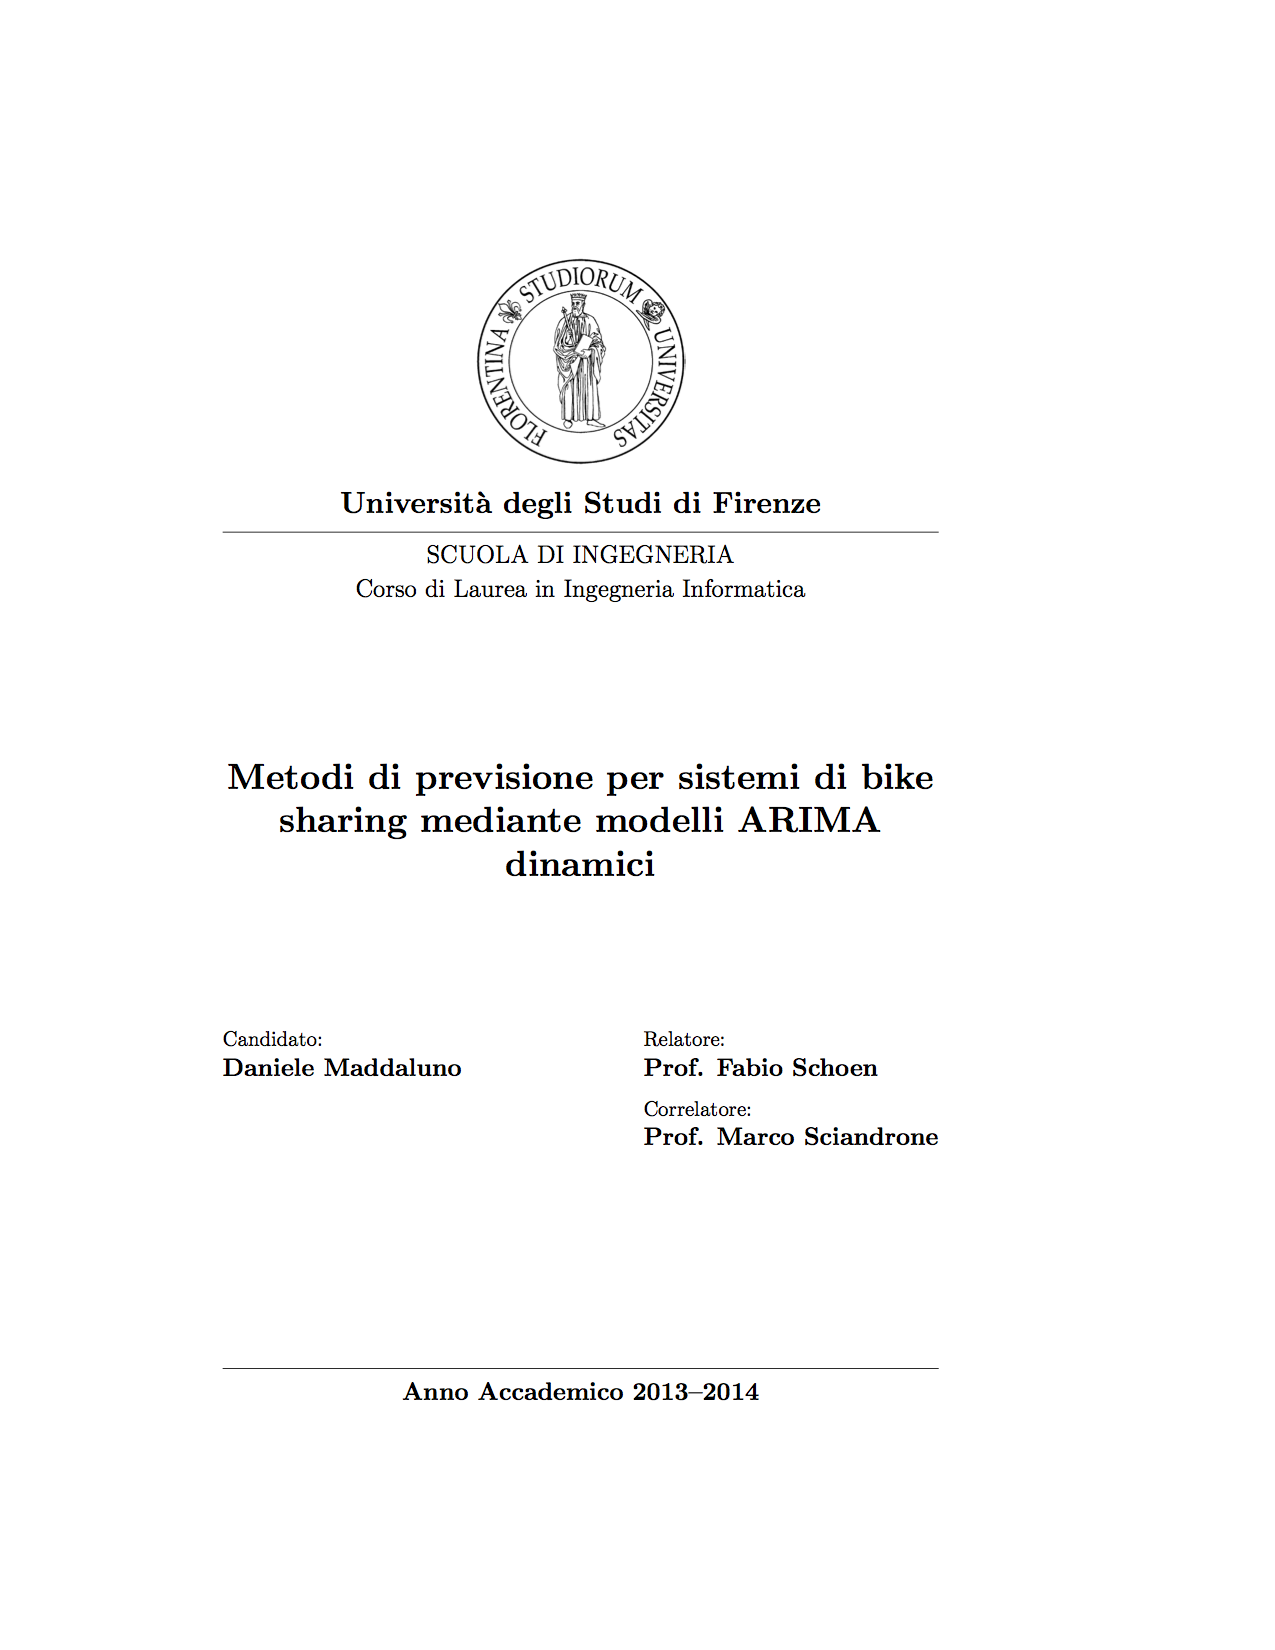
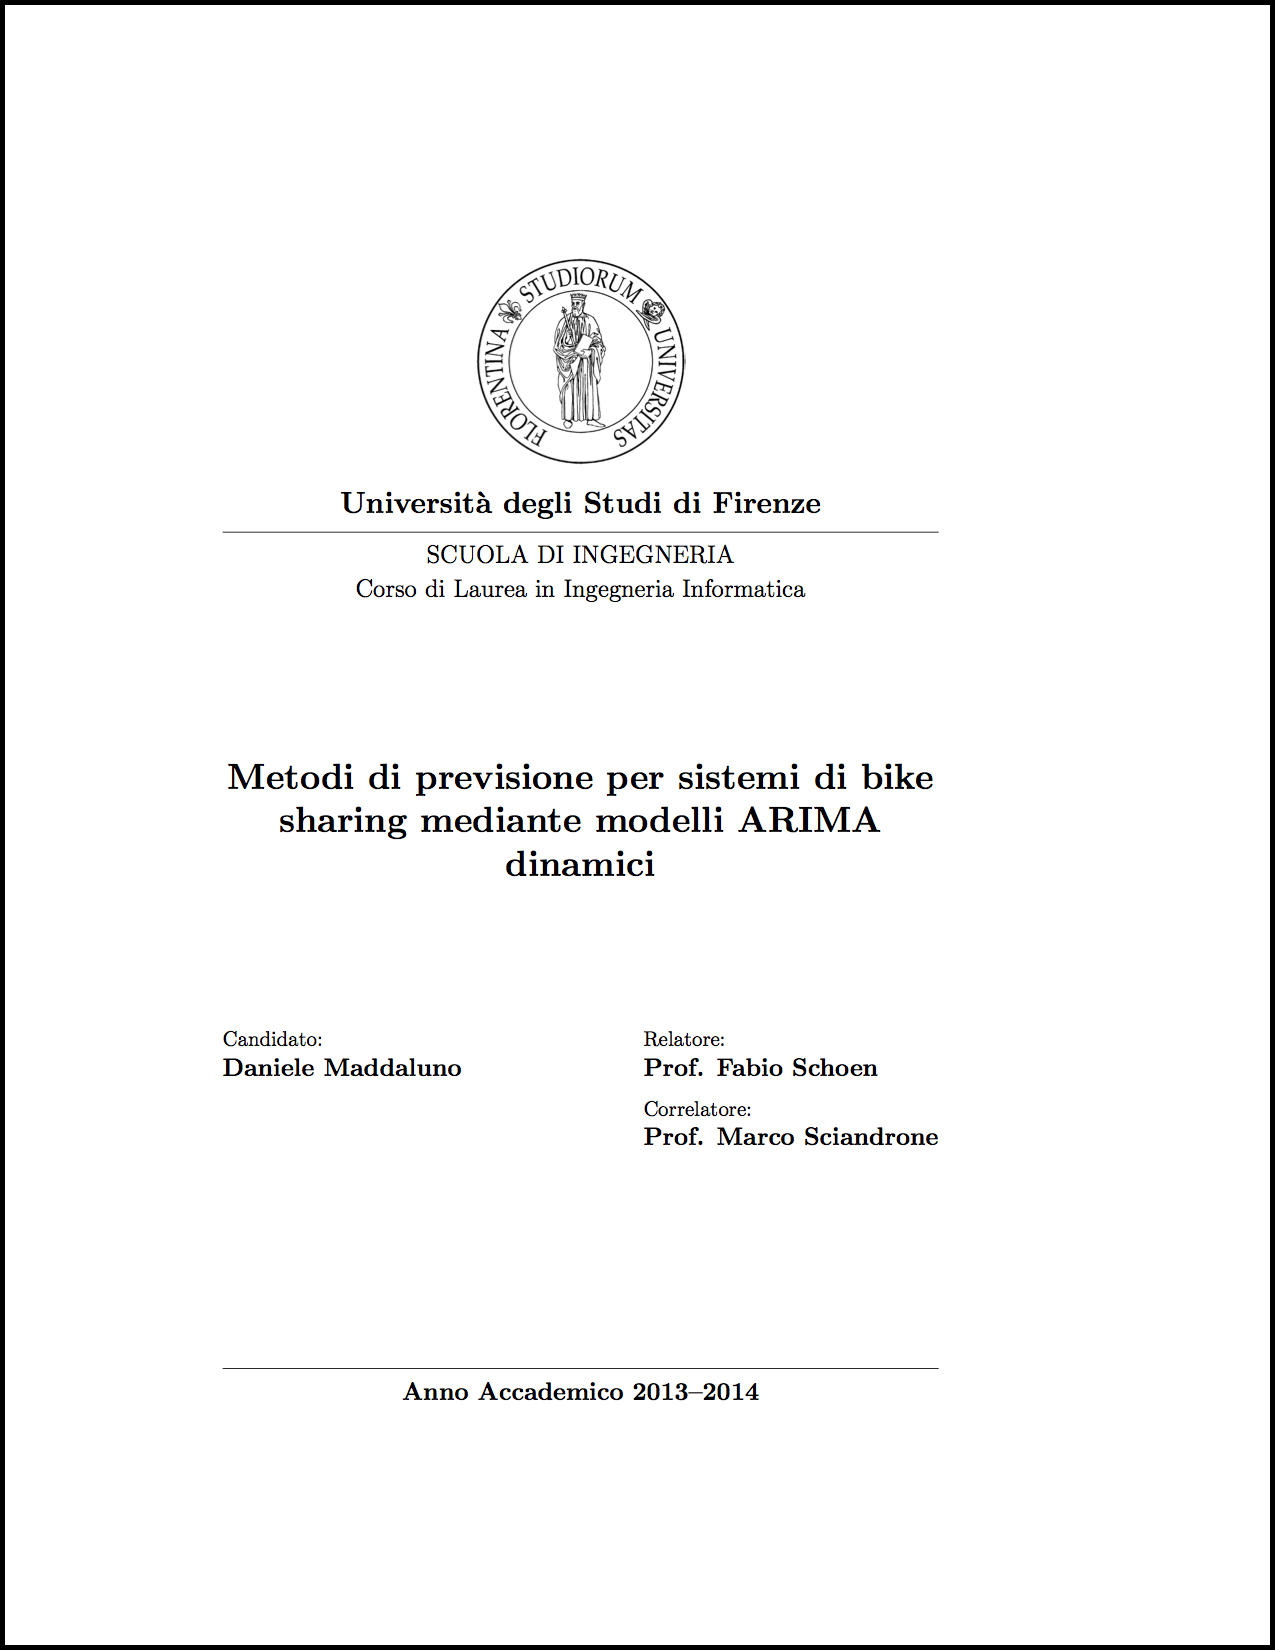
Added border to README-frontispiece.png and a simple howto in the README.md

Changed region(s): [[0.0, 0.0, 1.0, 1.0]]

diff --git a/README.md b/README.md
@@ -2,5 +2,7 @@
 Provides latex code to generate a simple frontispiece.
 
 I will create for you a pdf frontispiece like this one:
-
 ![Screenshot](https://raw.githubusercontent.com/danielemaddaluno/latex-frontispiece/master/README-frontispiece.png)
+Once produced the pdf frontispiece with this tex you can add it as first page of your tex following these two steps:
+* add `\usepackage{pdfpages}` beetween the imports of your document.tex
+* add `\includepdf[pages={1}]{frontispiece.pdf}` after your \begin{document}
